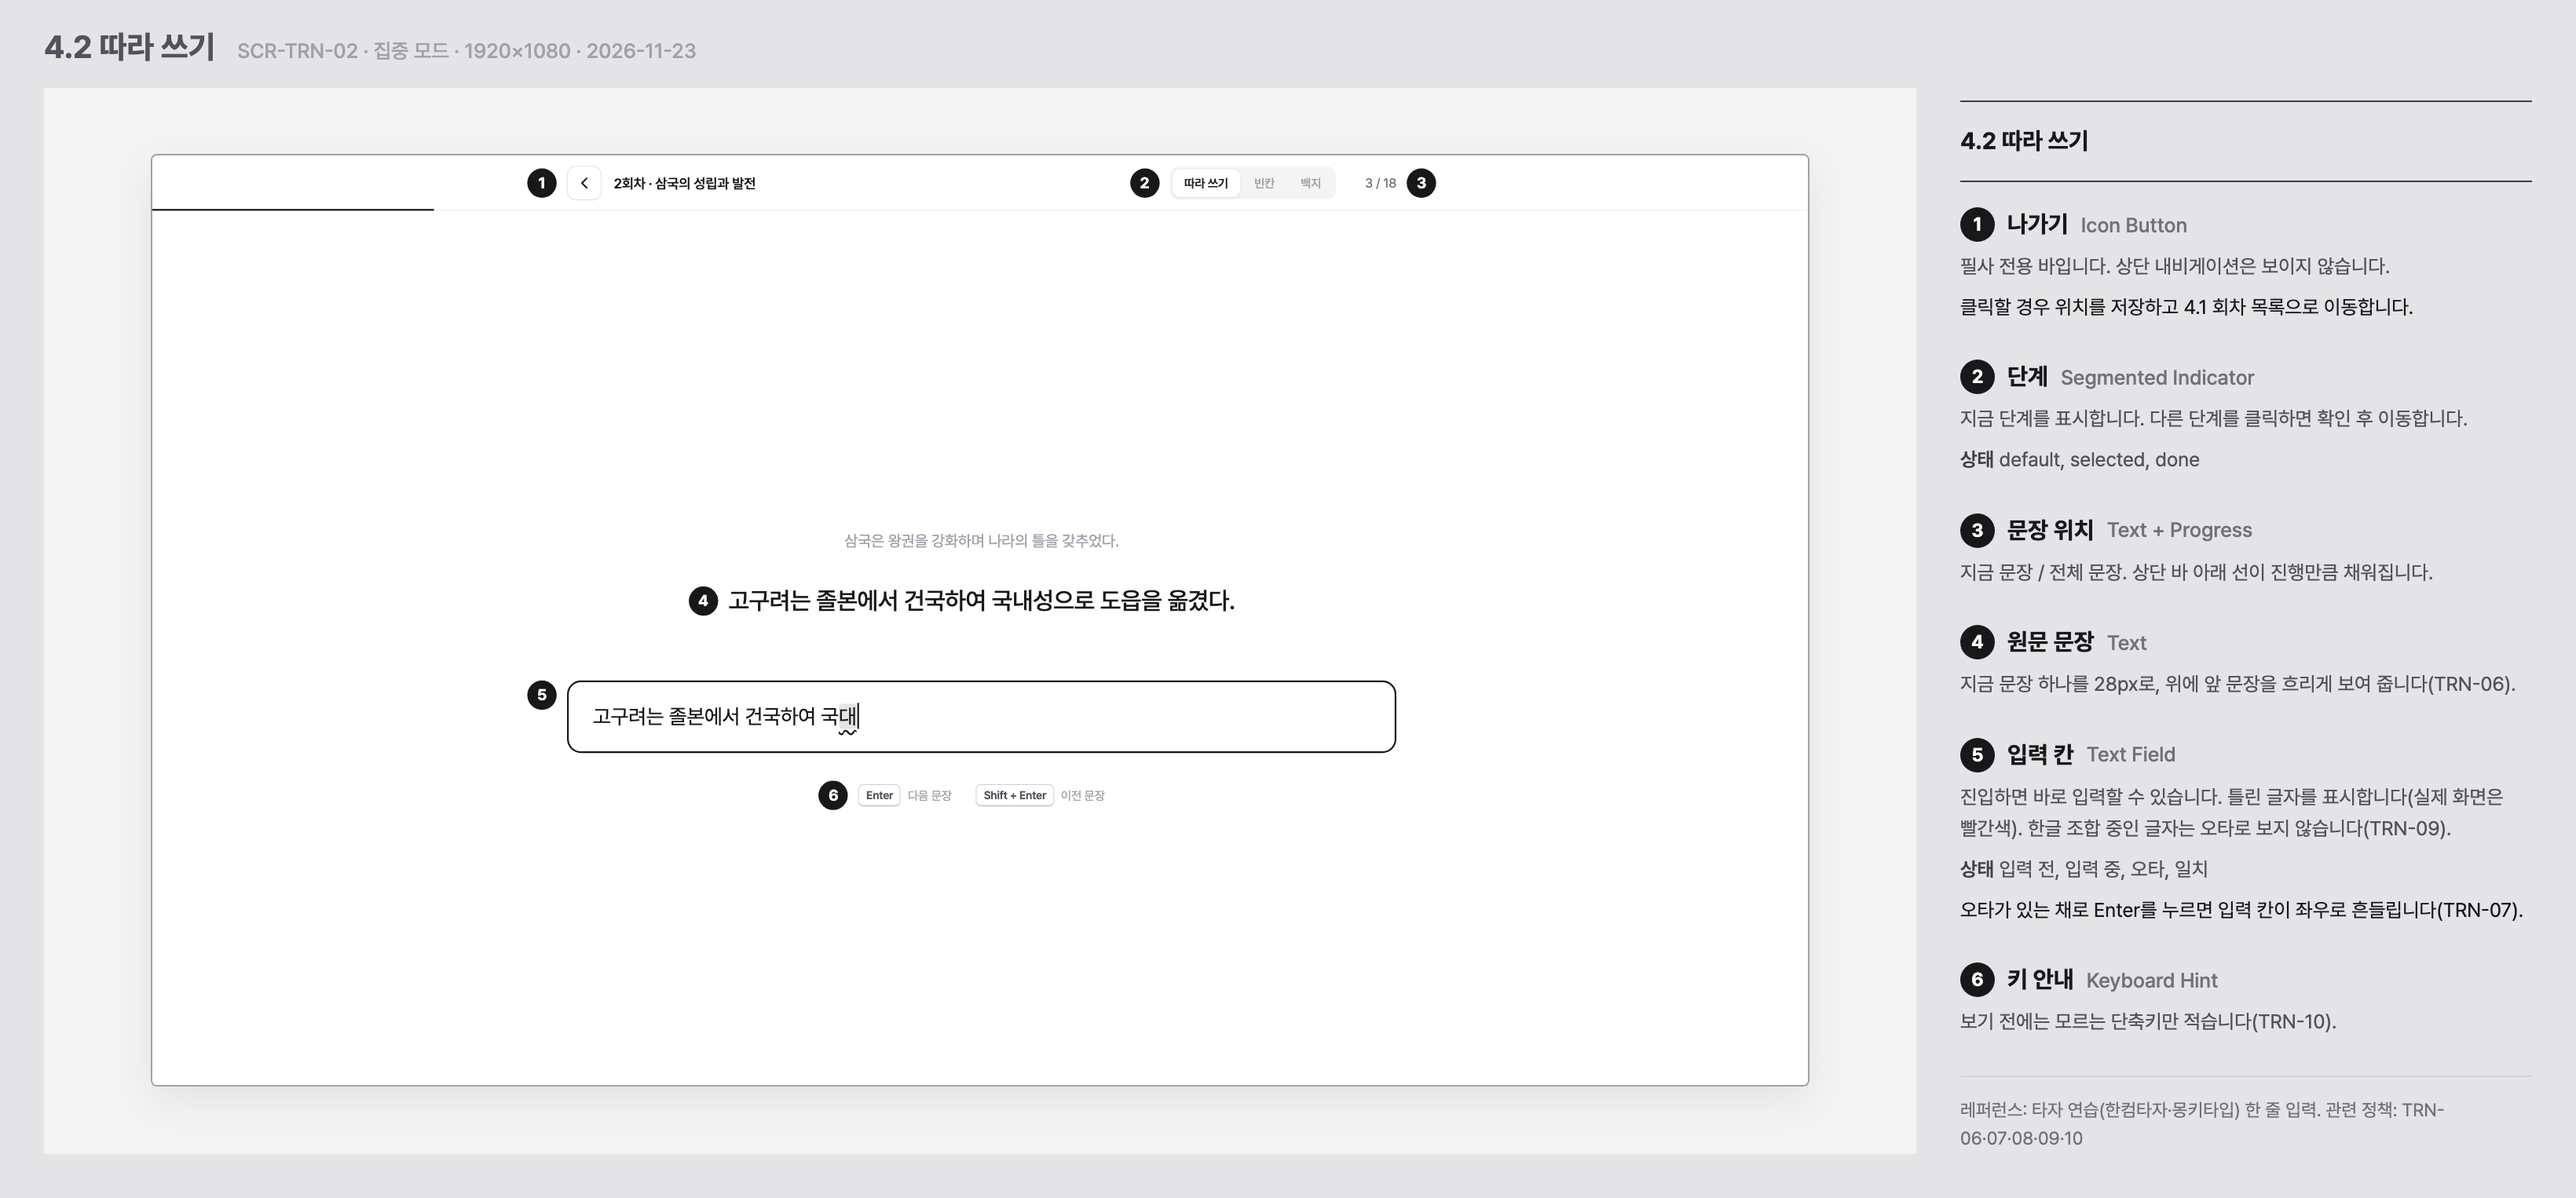
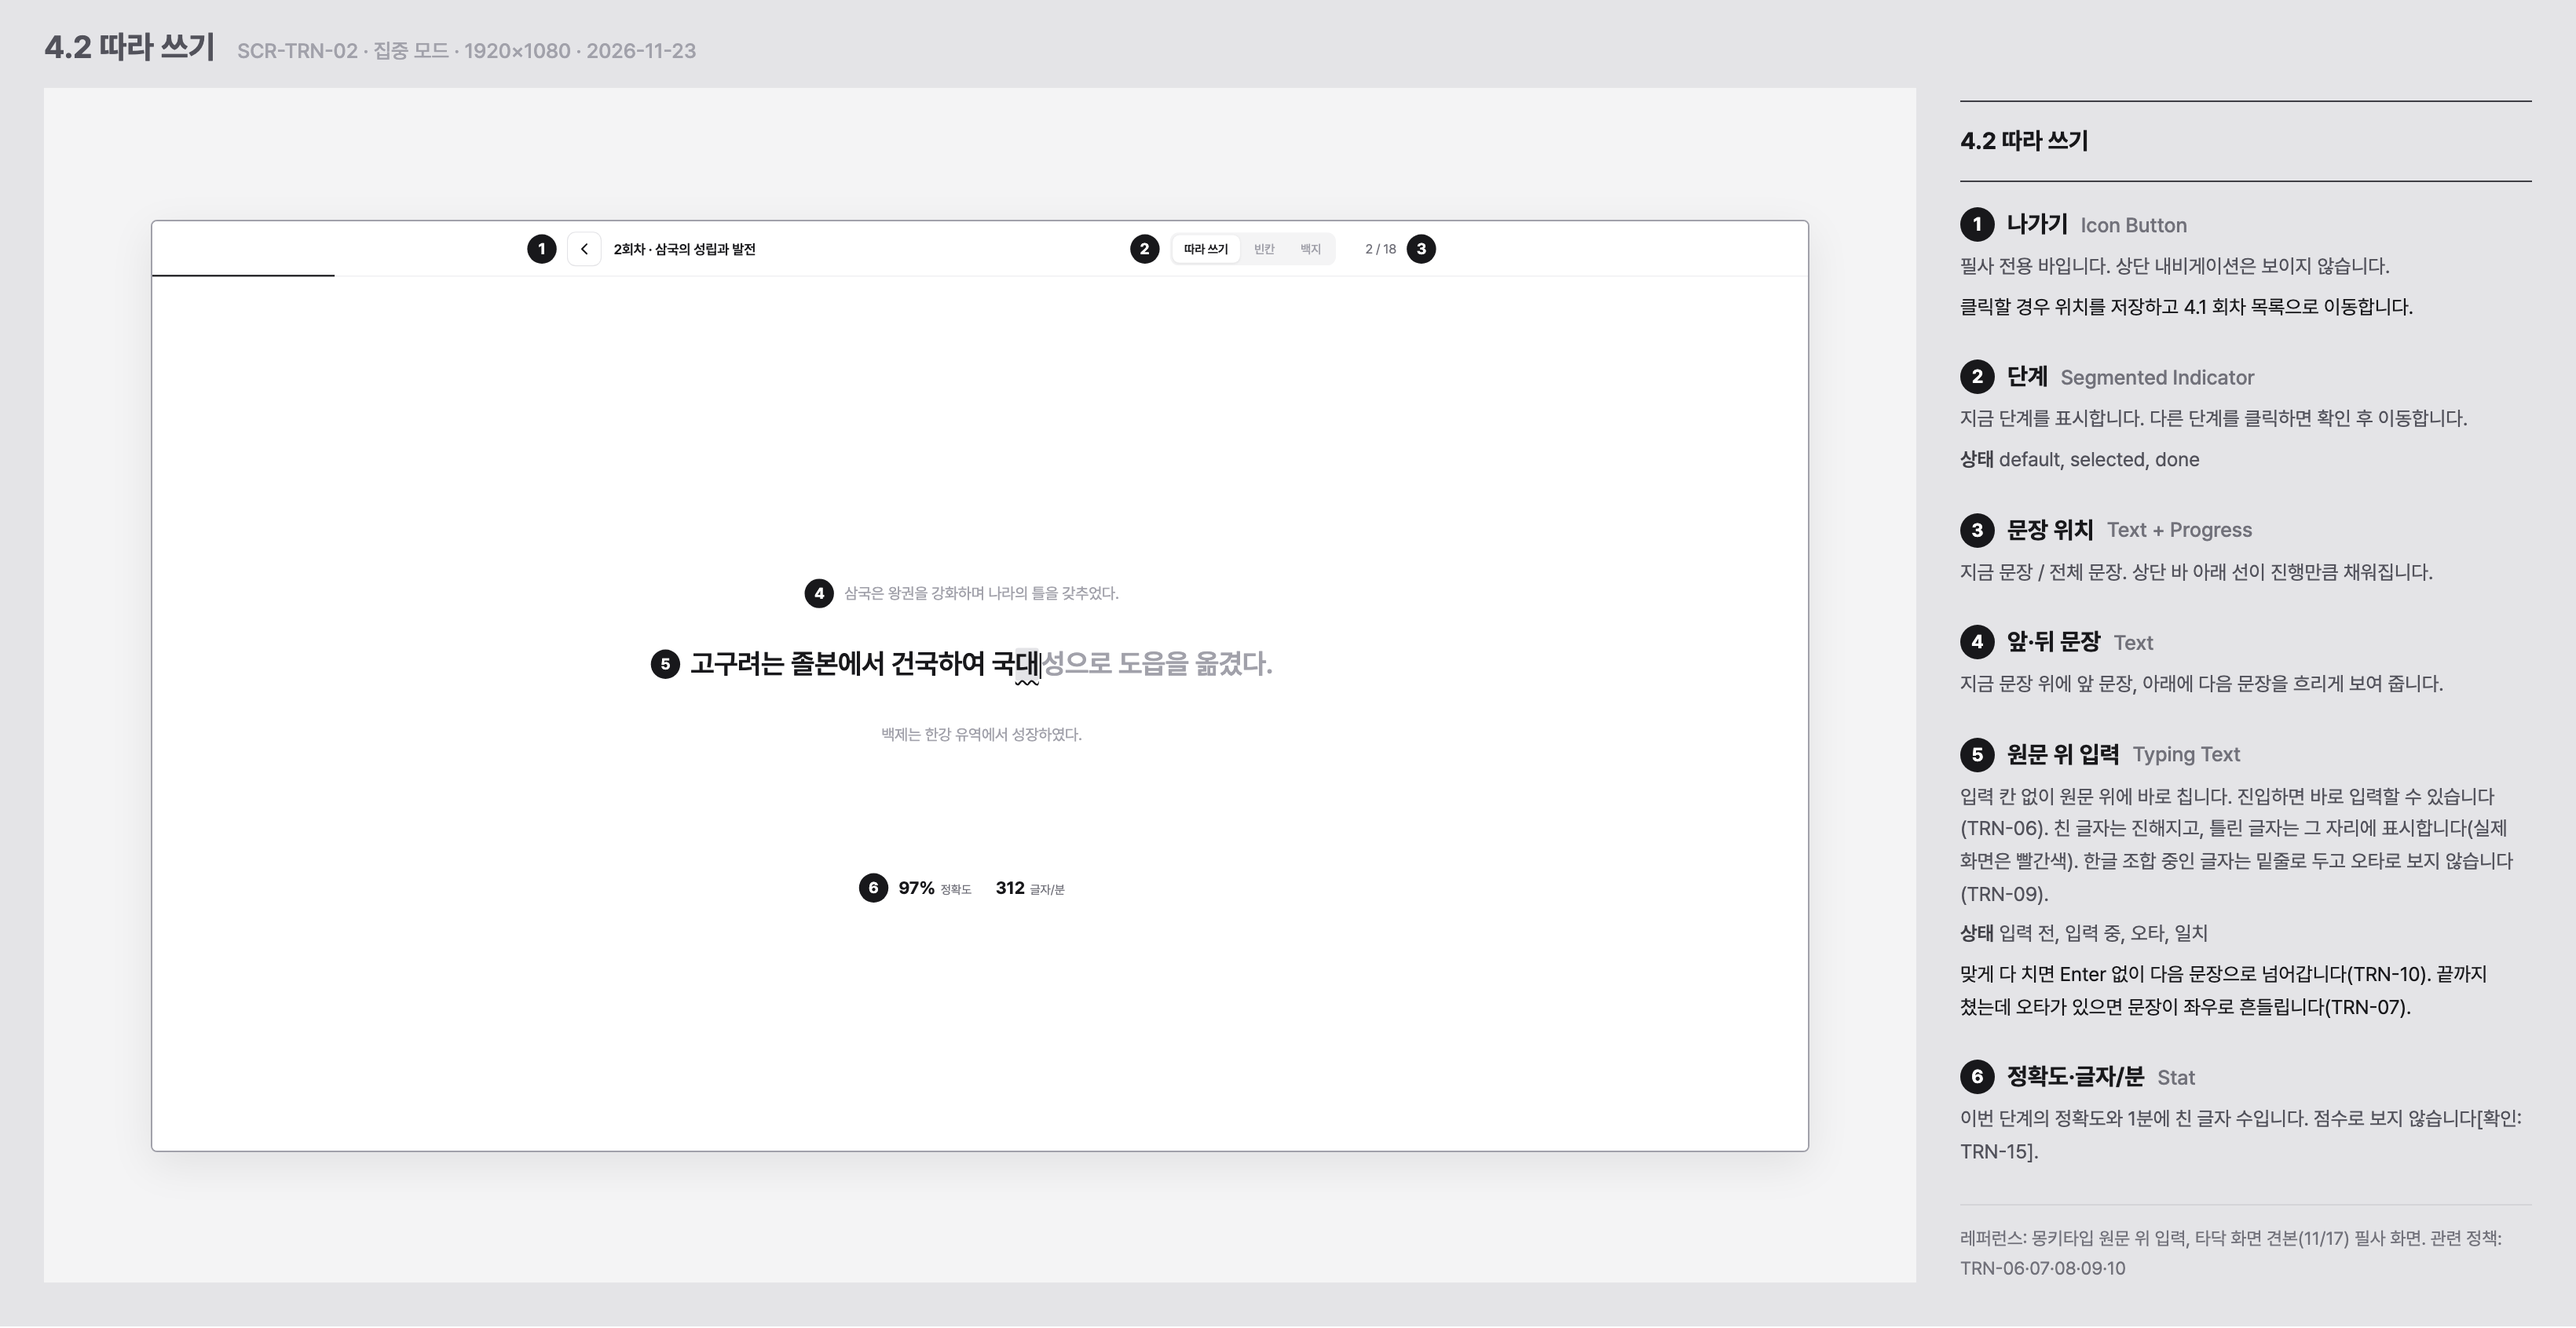
4.2 따라 쓰기를 타닥 화면 견본 방식으로, TRN-10 수정

diff --git a/docs/policy/transcription.md b/docs/policy/transcription.md
@@ -49,7 +49,7 @@
 - **TRN-05** 회차·단계별 완료 여부를 저장한다.
 - **TRN-08** 회차를 확정하면(SEC-03) 회차 원문을 문장으로 나눠 저장한다. 마침표·물음표·느낌표·줄바꿈에서 나누고, 번호·기호(1. ① - •)로 시작하는 줄은 그 줄을 한 문장으로 본다. [N자: 개발 확인]보다 긴 문장은 쉼표에서 한 번 더 나눈다.
 - **TRN-09** 입력은 원문과 글자 단위로 비교한다. 띄어쓰기·문장부호도 원문과 같아야 한다. 연속 공백은 하나로 보고, 문장 끝 공백은 무시한다. 한글을 조합하는 중인 마지막 글자는 오타로 보지 않는다.
-- **TRN-10** 원문과 똑같이 입력한 뒤 Enter를 누르면 다음 문장으로 넘어간다. Shift+Enter나 버튼으로 이전 문장을 다시 볼 수 있다.
+- **TRN-10** 원문 위에 바로 입력하고, 원문과 똑같아지면 Enter 없이 다음 문장으로 넘어간다. 이전 문장으로 가는 방법은 [미결정]. (타닥 화면 견본의 필사 방식)
 - **TRN-11** 한 회차의 모든 문장을 마치면 그 단계가 완료된다. 단계는 순서대로 권하지만 잠그지 않는다. 마감 직전 사용자는 바로 백지로 갈 수 있다.
 - **TRN-12** 필사 중 나가면 회차·단계·마지막 문장 위치를 저장하고, 다시 들어오면 그 문장부터 이어서 한다.
 - **TRN-13** 백지 단계에는 TRN-07(오타 시 진행 막기)을 적용하지 않는다. 원문을 보여 줄 수 없으므로, 다 쓴 뒤 비교 화면(TRN-04)에서 확인한다.
@@ -75,7 +75,7 @@
 | --- | --- | --- | --- | --- |
 | 1 | 회차 확정 | 회차 원문을 문장으로 나눠 저장, 빈칸 어절 미리 정함 | 시작 전 | SEC-03, TRN-08·18 |
 | 2 | 시작 전 | 회차 목록에서 회차·단계를 고름 | 진행 중 | TRN-11 |
-| 3 | 진행 중 | 문장 1개씩 입력, 비교, Enter로 다음 문장. 나가면 위치 저장 | 마지막 문장 끝 → 단계 완료 | TRN-06·07·09·10·12 |
+| 3 | 진행 중 | 문장 1개씩 원문 위에 입력, 비교, 맞으면 바로 다음 문장. 나가면 위치 저장 | 마지막 문장 끝 → 단계 완료 | TRN-06·07·09·10·12 |
 | 4 | 단계 완료 | 걸린 시간·문장 수 표시. 백지면 비교 화면으로 | 다음 단계 시작 전 / 백지 비교 | TRN-05·15 |
 | 5 | 백지 비교 | 입력과 원문을 나란히 보고 다른 어절 확인 | 퀴즈(QIZ) / 백지 다시 / 회차 목록 | TRN-04·14 |
 
@@ -95,7 +95,7 @@
 
 | 상황 | 메시지 (초안) | 정책 |
 | --- | --- | --- |
-| 오타가 있는 채로 Enter | (문구 없음, 입력 영역 흔들림) | TRN-07 |
+| 끝까지 쳤는데 오타가 있음 | (문구 없음, 문장 흔들림) | TRN-07 |
 | 이어서 하기 | 지난번 3번째 문장부터 이어서 할게요. | TRN-12 |
 | 앞 단계를 건너뜀 | 빈칸 단계를 아직 안 했어요. 그래도 백지로 갈까요? | TRN-11 |
 | 백지 중 나가기 | 지금까지 쓴 내용은 저장돼요. | TRN-12 |
@@ -109,3 +109,4 @@
 | 2026-11-23 | TRN-07 확정: 오타가 있으면 넘어가지 않고 좌우 흔들림 모션으로 수정을 알린다 |
 | 2026-11-23 | TRN-07 보완: 틀린 글자는 빨간색으로 표시한다 |
 | 2026-11-23 | 1사이클 시안: TRN-08–15(검토 중)·TRN-16–19(미결정) 추가, 처리 흐름·저장하는 정보 추가 |
+| 2026-11-24 | TRN-10 수정: 원문 위에 바로 입력하고, 맞으면 Enter 없이 다음 문장(타닥 화면 견본 방식) |

diff --git a/docs/screens/transcription.md b/docs/screens/transcription.md
@@ -15,7 +15,7 @@
 ## 사용자 흐름
 
 1. 회차 목록에서 회차와 단계를 고른다. 하던 단계가 있으면 이어서 한다. (TRN-11·12)
-2. 문장 1개씩 입력하고 Enter로 넘어간다. 오타가 있으면 넘어가지 않는다. (TRN-06·07·10)
+2. 문장 1개씩 원문 위에 입력하고, 맞게 다 치면 바로 다음 문장으로 넘어간다. 오타가 있으면 넘어가지 않는다. (TRN-06·07·10)
 3. 단계를 마치면 다음 단계를 권한다. 백지를 마치면 원문과 비교한다. (TRN-04·15)
 4. 비교를 마치면 퀴즈로 이동한다. (QIZ)
 
@@ -46,12 +46,12 @@
 <li><b>나가기</b><span class="kind">Icon Button</span>: 필사 전용 바입니다. 상단 내비게이션은 보이지 않습니다.<ul><li>→ 클릭할 경우 위치를 저장하고 4.1 회차 목록으로 이동합니다.</li></ul></li>
 <li><b>단계</b><span class="kind">Segmented Indicator</span>: 지금 단계를 표시합니다. 다른 단계를 클릭하면 확인 후 이동합니다.<ul><li>상태: default, selected, done</li></ul></li>
 <li><b>문장 위치</b><span class="kind">Text + Progress</span>: 지금 문장 / 전체 문장. 상단 바 아래 선이 진행만큼 채워집니다.</li>
-<li><b>원문 문장</b><span class="kind">Text</span>: 지금 문장 하나를 28px로, 위에 앞 문장을 흐리게 보여 줍니다(TRN-06).</li>
-<li><b>입력 칸</b><span class="kind">Text Field</span>: 진입하면 바로 입력할 수 있습니다. 틀린 글자를 표시합니다(실제 화면은 빨간색). 한글 조합 중인 글자는 오타로 보지 않습니다(TRN-09).<ul><li>상태: 입력 전, 입력 중, 오타, 일치</li><li>→ 오타가 있는 채로 Enter를 누르면 입력 칸이 좌우로 흔들립니다(TRN-07).</li></ul></li>
-<li><b>키 안내</b><span class="kind">Keyboard Hint</span>: 보기 전에는 모르는 단축키만 적습니다(TRN-10).</li>
+<li><b>앞·뒤 문장</b><span class="kind">Text</span>: 지금 문장 위에 앞 문장, 아래에 다음 문장을 흐리게 보여 줍니다.</li>
+<li><b>원문 위 입력</b><span class="kind">Typing Text</span>: 입력 칸 없이 원문 위에 바로 칩니다. 진입하면 바로 입력할 수 있습니다(TRN-06). 친 글자는 진해지고, 틀린 글자는 그 자리에 표시합니다(실제 화면은 빨간색). 한글 조합 중인 글자는 밑줄로 두고 오타로 보지 않습니다(TRN-09).<ul><li>상태: 입력 전, 입력 중, 오타, 일치</li><li>→ 맞게 다 치면 Enter 없이 다음 문장으로 넘어갑니다(TRN-10). 끝까지 쳤는데 오타가 있으면 문장이 좌우로 흔들립니다(TRN-07).</li></ul></li>
+<li><b>정확도·글자/분</b><span class="kind">Stat</span>: 이번 단계의 정확도와 1분에 친 글자 수입니다. 점수로 보지 않습니다[확인: TRN-15].</li>
 </ol>
 
-<p class="mk-note">레퍼런스: 타자 연습(한컴타자·몽키타입) 한 줄 입력. 관련 정책: TRN-06·07·08·09·10</p>
+<p class="mk-note">레퍼런스: 몽키타입 원문 위 입력, 타닥 화면 견본(11/17)의 필사 화면. 관련 정책: TRN-06·07·08·09·10</p>
 
 ## 4.3 빈칸 입력 시안 · SCR-TRN-03
 

diff --git a/docs/guide/changelog.md b/docs/guide/changelog.md
@@ -17,3 +17,4 @@
 | 2026-11-23(월) | 위키 화면 개편: 사이드바를 왼쪽 끝에 붙이고 본문을 넓힘, 글자 크기와 "이 페이지 목차"를 줄임. 화면 설계서를 화면 이미지 + 번호 목록으로 바꿈. 페이지마다 맨 위에 "이 페이지에서 할 일"과 의견 남기기 링크 추가 |
 | 2026-11-23(월) | 화면 설계서 24장을 자료 넣기와 같은 완성도로 다시 그림(2.2·3·4·0·1). 2.2를 2.2.1 파일 선택됨·2.2.2 오류로 나눔. 화면 설계 기준에 "8. 화면 문구" 추가 |
 | 2026-11-24(화) | 계정 정책 ACC-03 확정(로그인은 Google만, 다른 소셜 로그인·이메일 가입 없음). 0.3 로그인·0.4 회원가입·0.5 설정 화면 설계서 반영 |
+| 2026-11-24(화) | 4.2 따라 쓰기를 타닥 화면 견본 방식으로 바꿈: 원문 위에 바로 입력, 맞으면 Enter 없이 다음 문장, 앞·뒤 문장, 정확도·글자/분. 필사 정책 TRN-10 수정 |
